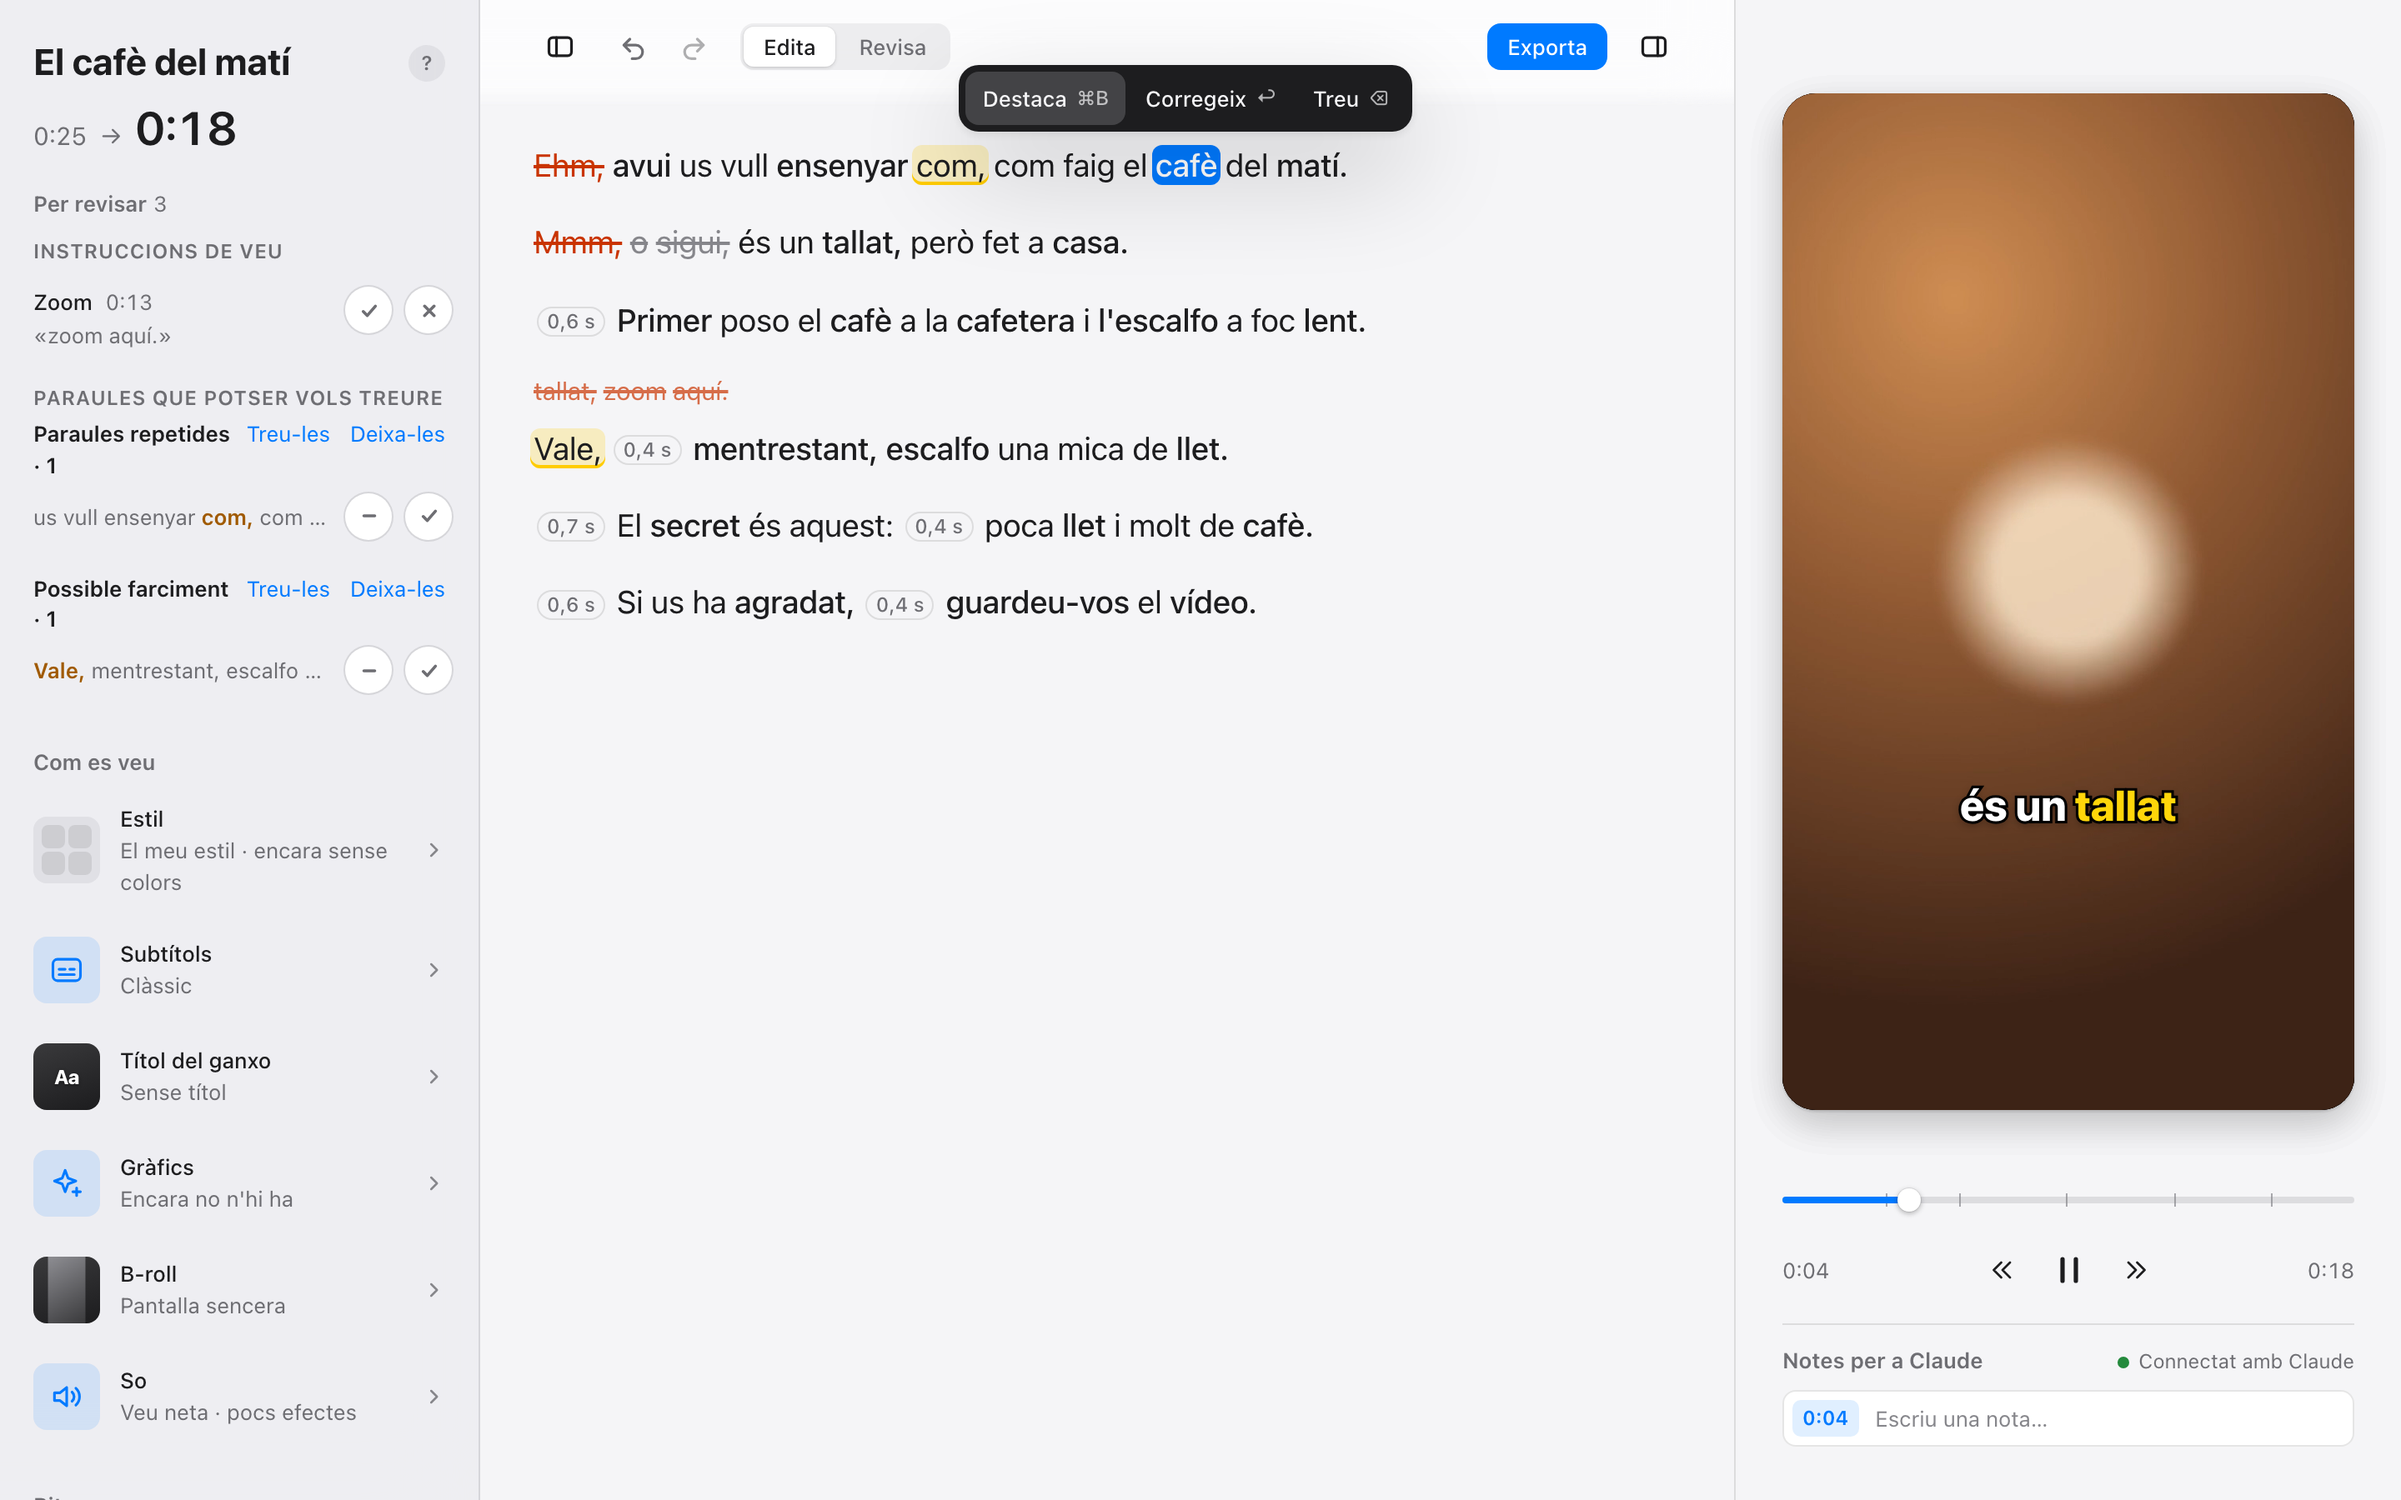
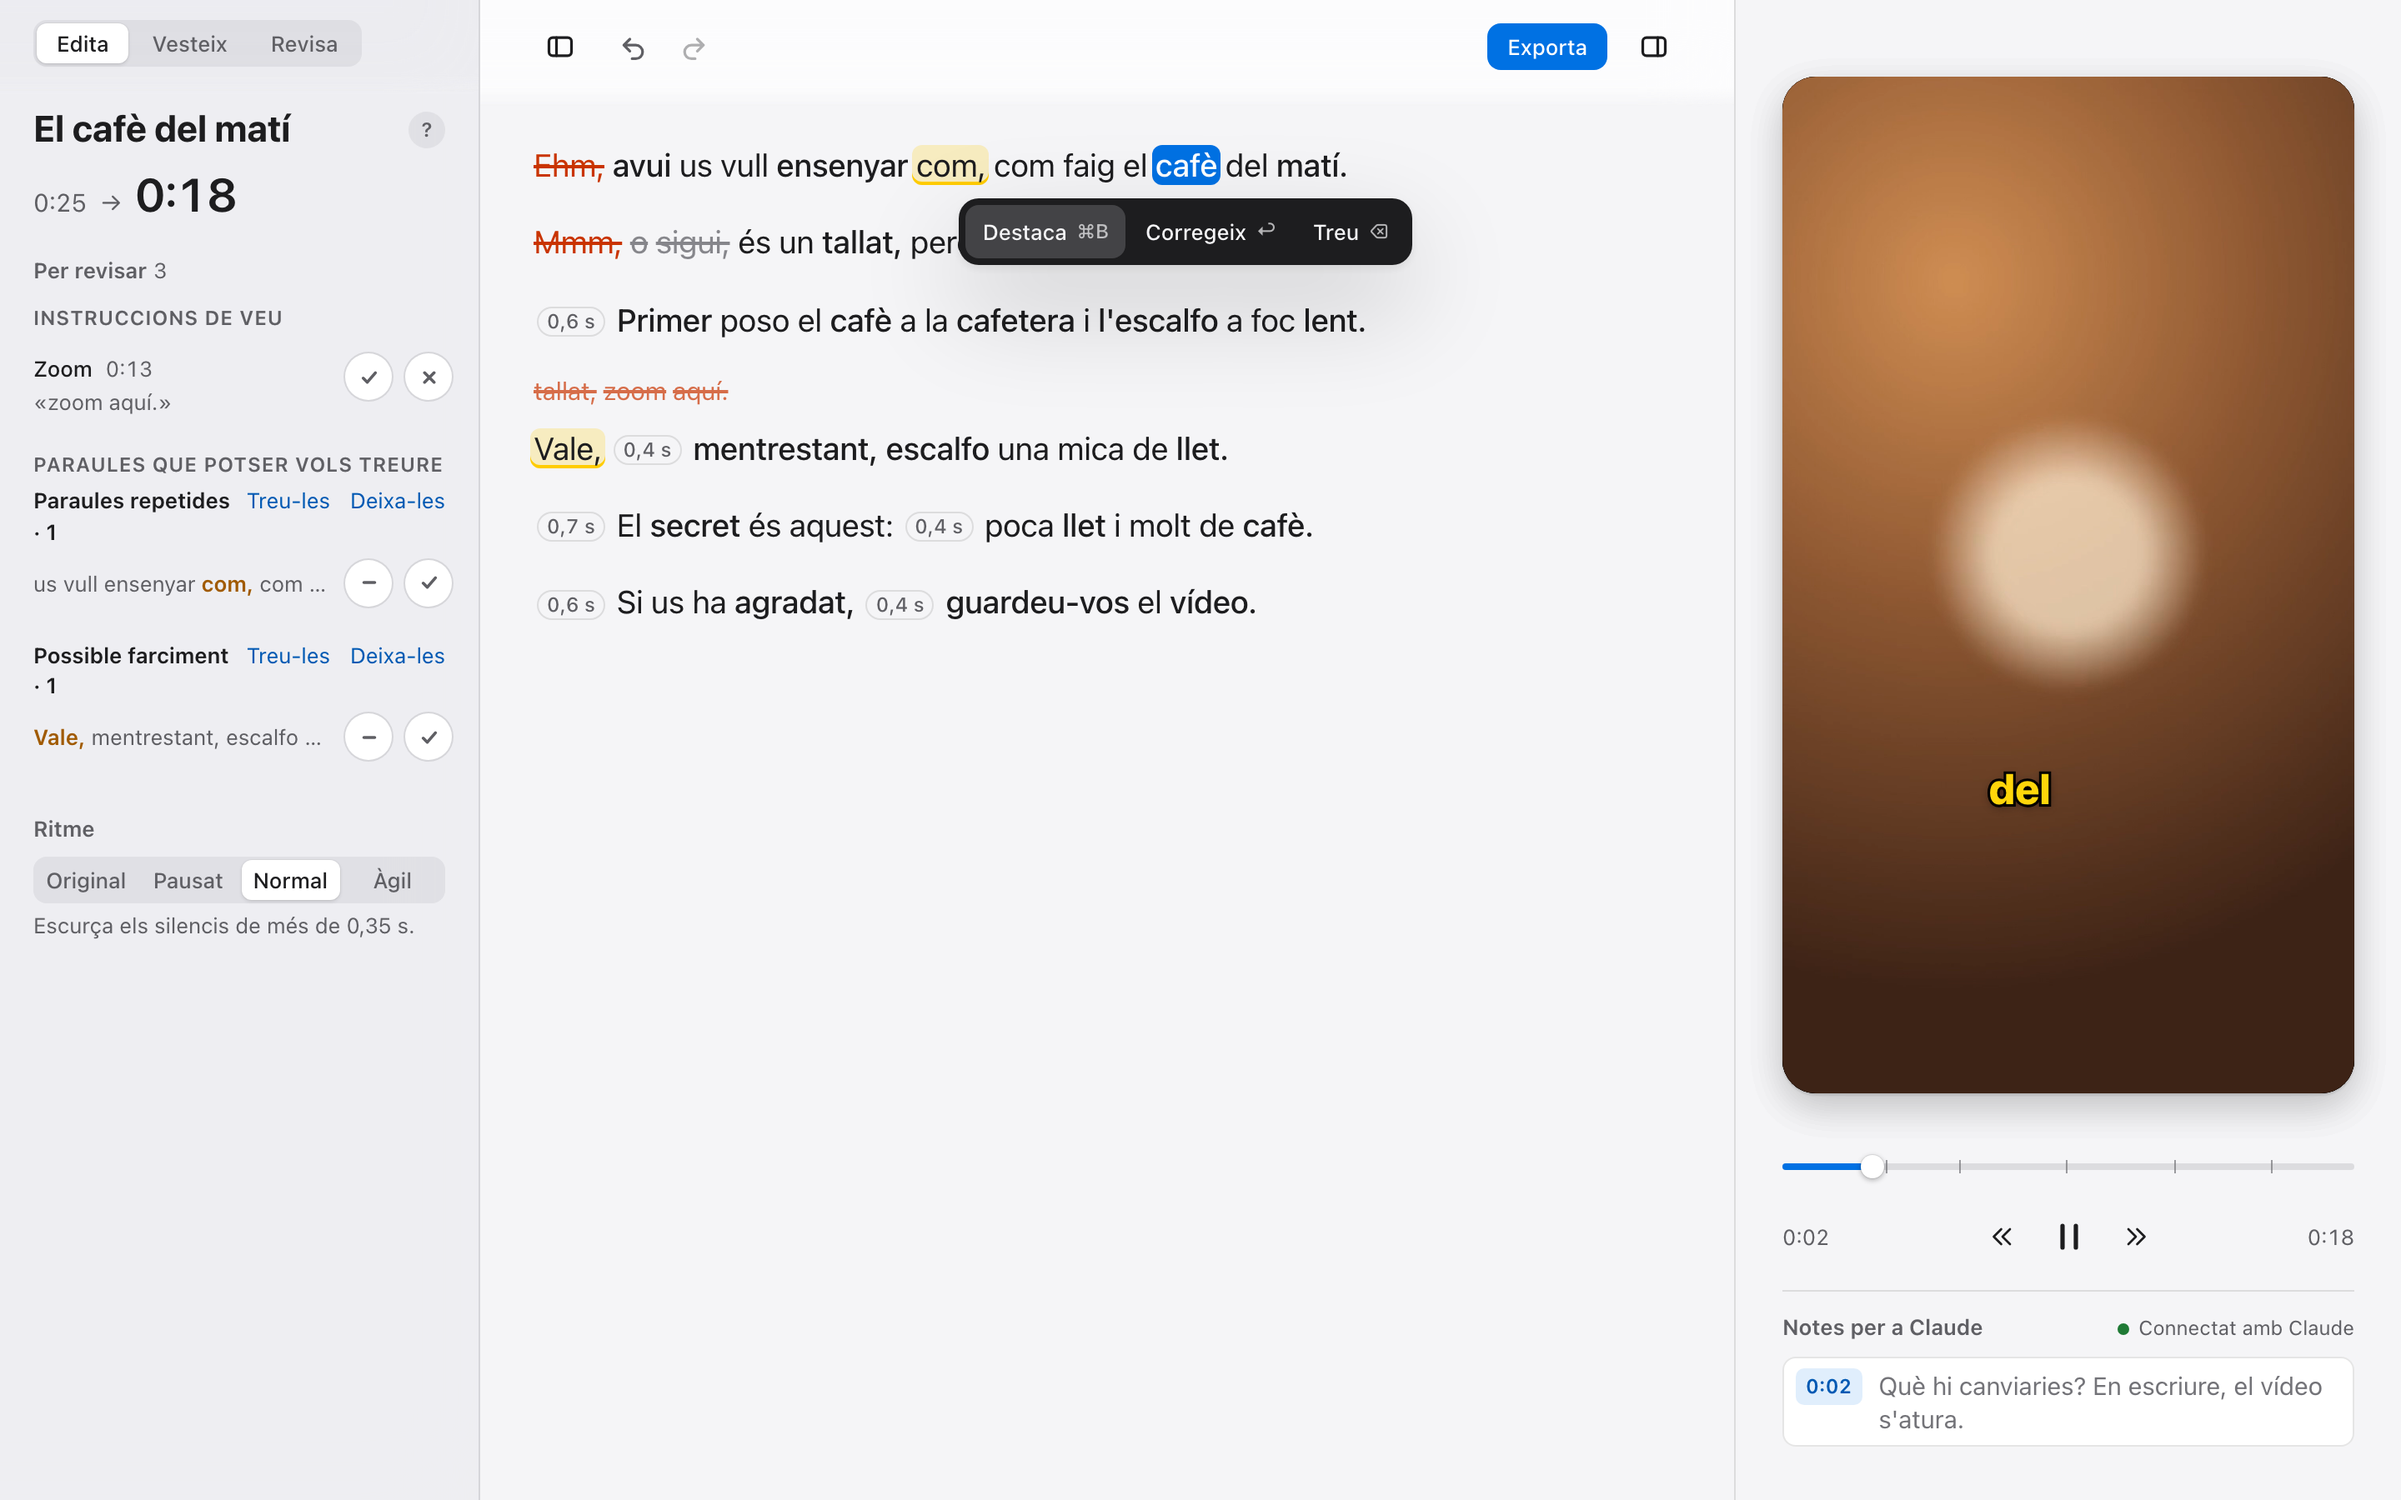
Captures noves de la pàgina i el README al dia; les frases noves es tallen en un lloc natural

diff --git a/pagina/app.js b/pagina/app.js
@@ -3432,14 +3432,15 @@ function paraulaPerAfegir() {
   return null;
 }
 
-// El que es diu a partir d'una paraula (fins al final de la frase): el text de partida dels gràfics nous.
+// El que es diu a partir d'una paraula (fins al final de la frase, o abans, en una coma o uns dos punts si ja n'hi ha
+// prou): el text de partida dels gràfics nous. Que no quedi tallat a mitges («poca llet i»).
 function textDes(id, max) {
   const paraules = [];
   for (let k = id; k < P.paraules.length && paraules.length < max; k++) {
     if (esFora(k)) continue;
     const text = String(estat.correccions?.[k] ?? P.paraules[k].text).trim();
     paraules.push(text);
-    if (/[.?!…]["'»”]*$/.test(text)) break;
+    if (/[.?!…]["'»”]*$/.test(text) || (paraules.length >= 3 && /[,:;]$/.test(text))) break;
   }
   return paraules.join(" ").replace(/^[«"“¿¡]+/, "").replace(/[.,;:!?…«»"“”]+$/, "");
 }

diff --git a/README.md b/README.md
@@ -7,7 +7,7 @@ tallat és un editor de reels en català que funciona dins de [Claude](https://c
 
 És gratuït, de codi obert i tot passa al teu ordinador.
 
-![La pàgina d'editar de tallat: a l'esquerra el que cal revisar, al mig el text amb paraules ratllades, a la dreta el vídeo amb subtítols.](.github/imatges/1-edita.png)
+![La pàgina de tallat, a Edita: a l'esquerra el que cal revisar i el ritme, al mig el text amb paraules ratllades, a la dreta el vídeo amb subtítols i les notes per a Claude.](.github/imatges/1-edita.png)
 
 *Treus paraules com en un document i el vídeo queda tallat. En taronja, el que tallat ha tret sol; en gris, el que has tret tu.*
 
@@ -21,14 +21,15 @@ tallat és un editor de reels en català que funciona dins de [Claude](https://c
 - **B-roll i stickers.** Fitxers teus, o generats amb la intel·ligència artificial d'imatge o vídeo que tinguis connectada a Claude. El b-roll pot tapar tota la pantalla o sortir en una targeta arrodonida, en una finestra petita, com una foto, amb la pantalla partida o en tres targetes seguides.
 - **Canvies l'ordre** dels paràgrafs arrossegant-los.
 - **Títol del ganxo.** Un text dissenyat per als primers segons («#3 canvis / **ser creadora** / nivell fàcil»), que pots escriure tu o et proposa Claude, amb el seu estil: en esglaó, com un rètol, a màquina d'escriure amb el fons enfosquit…
-- **El teu estil.** Tries els teus colors i lletres a la pàgina, en 4 passos (o, si vols, Claude te'ls pregunta al xat, a partir d'un reel que t'hauria agradat fer), i els subtítols, el títol, els gràfics i el b-roll els fan servir sols. Després els pots retocar quan vulguis.
+- **Vesteix el vídeo tocant-lo.** Tria un estil per a tot el vídeo d'un sol toc (subtítols, títol, gràfics i b-roll: Net, Revista, Pop, Suau, Impacte o Apilat) i afegeix-hi peces: atura el vídeo on vulguis i toca un gràfic, un b-roll, un zoom o un so. Cada vídeo té el seu estil, i **⌘Z** ho desfà tot.
+- **Els teus colors i lletres.** Els tries a la pàgina en 2 passos (o, si vols, Claude te'ls pregunta al xat, a partir d'un reel que t'hauria agradat fer), i els subtítols, el títol, els gràfics i el b-roll els fan servir sols.
 - **Uns quants estils.** Desa el teu estil (lletra, colors, animacions, durada del b-roll…) amb un nom, fes-ne uns quants per a tipus de vídeo diferents, tria'n un per a cada vídeo i passa'l a qui vulguis en un `.zip`.
 - **Recorda el teu gust.** Si dius a Claude «els subtítols, més grans» o «no em treguis mai els *vale*», et pregunta si és per sempre i ho aplica a tots els vídeos següents. Per veure les teves regles, pregunta-li «quines regles tinc?».
 - **Exporta** un esborrany ràpid, la versió final en 1080 o 4K vertical, o un projecte per acabar-lo a Premiere, Final Cut, DaVinci Resolve o CapCut.
 
-![El panell dels subtítols, amb sis estils, i el vídeo amb l'estil Apilat.](.github/imatges/2-subtitols.png)
+![Vesteix: a l'esquerra la galeria de peces, al mig el vídeo amb una frase clau, a la dreta la frase per retocar-la.](.github/imatges/2-vesteix.png)
 
-*Tries com són els subtítols i els veus de seguida al vídeo.*
+*A Vesteix, toques una peça i s'afegeix on és el vídeo. A la dreta la retoques.*
 
 ![Una nota per a Claude sota el vídeo, i la resposta de Claude: ha posat un zoom.](.github/imatges/3-notes.png)
 
